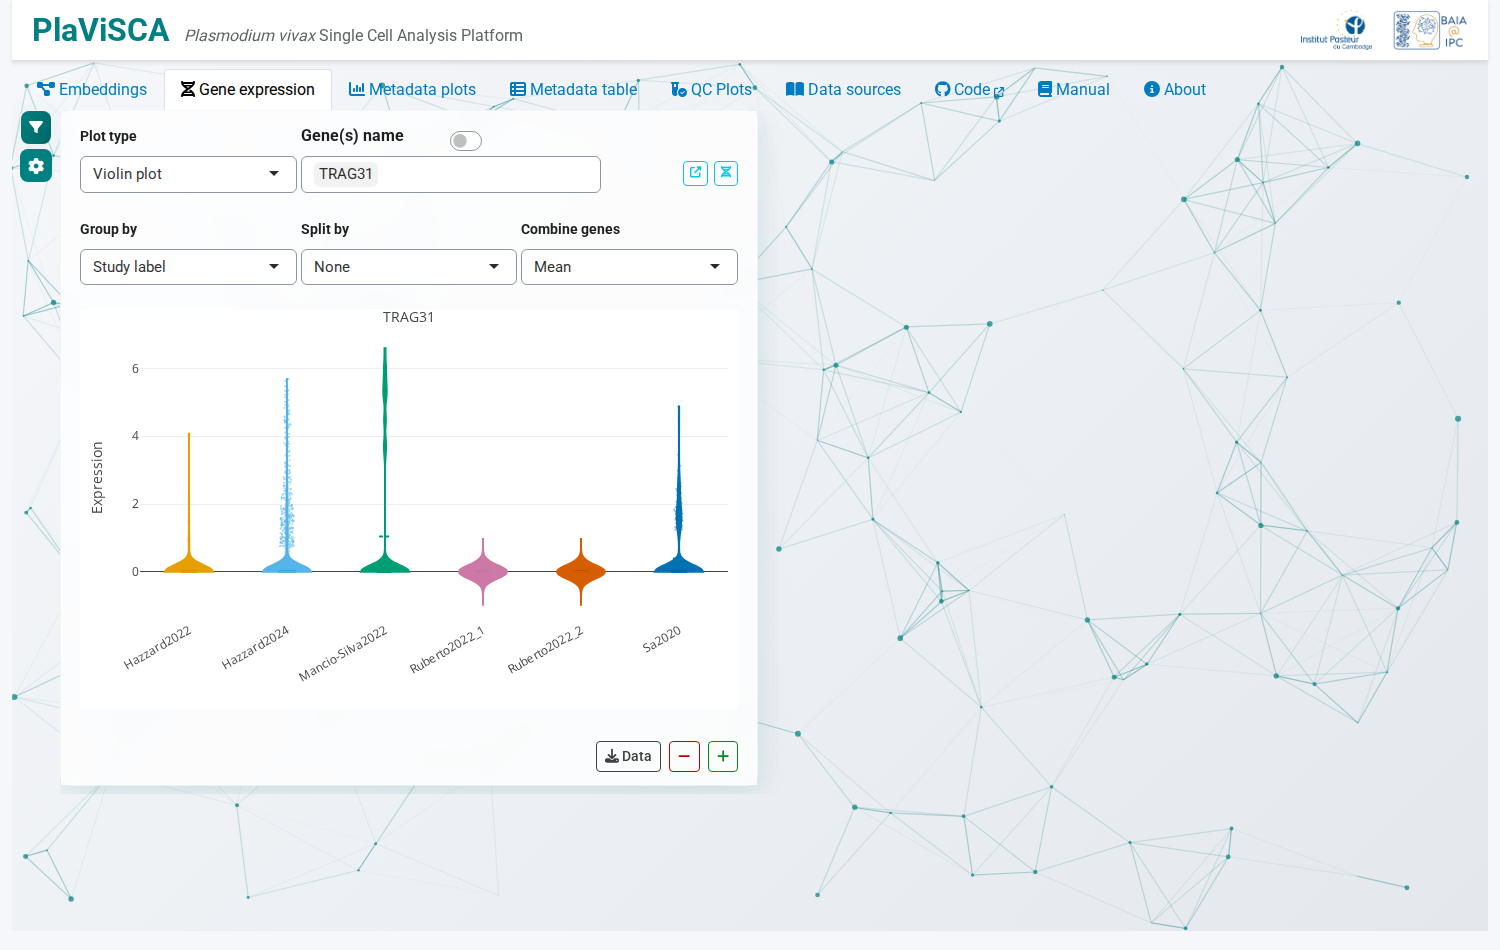
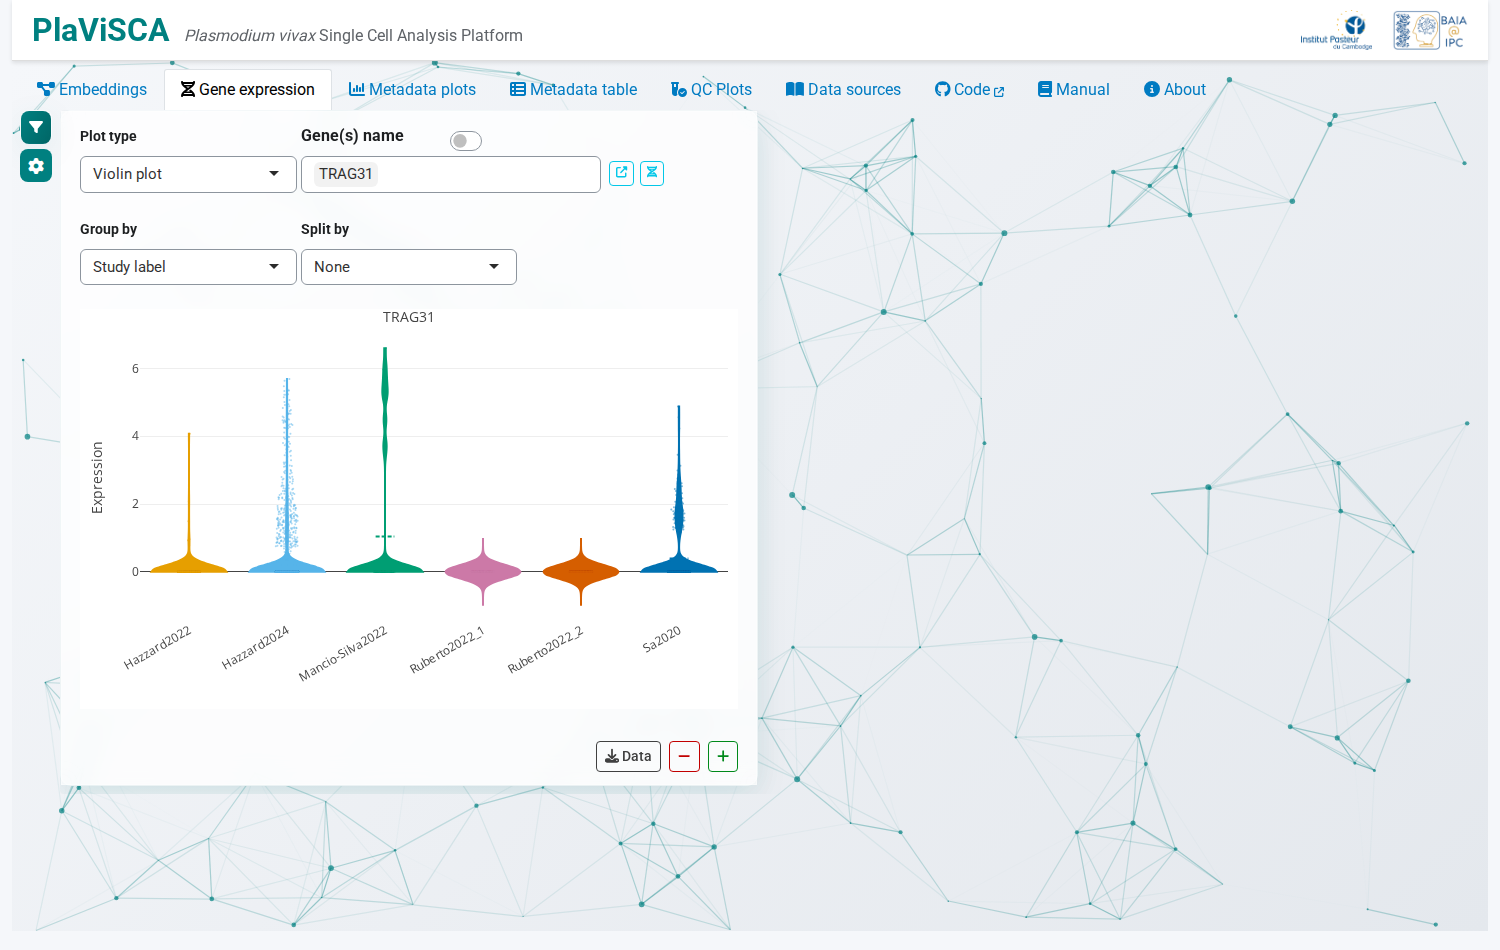
Manual: Gene expression image with the gene links next to the menu; rebuilt HTML

diff --git a/manual/docs/build/html/searchindex.js b/manual/docs/build/html/searchindex.js
@@ -1,1 +1,1 @@
-Search.setIndex({"alltitles":{"1. Clone the Repository":[[1,"clone-the-repository"]],"2. Install Dependencies":[[1,"install-dependencies"]],"3. Prepare the Data":[[1,"prepare-the-data"]],"4. Run the Application":[[1,"run-the-application"]],"About":[[2,"about"]],"Best Practices":[[2,"best-practices"]],"Contact":[[1,"contact"],[2,"contact"]],"Contents":[[0,null]],"Data Processing Pipeline":[[2,"data-processing-pipeline"]],"Data Sources":[[2,"data-sources"]],"Embeddings":[[2,"embeddings"]],"Environment Snapshot (current)":[[1,"environment-snapshot-current"]],"Gene Expression":[[2,"gene-expression"]],"Installation Steps":[[1,"installation-steps"]],"Metadata plots":[[2,"metadata-plots"]],"Metadata table":[[2,"metadata-table"]],"Notes for macOS":[[1,"notes-for-macos"]],"Option A: Using the helper script (Linux/macOS \u2014 Recommended)":[[1,"option-a-using-the-helper-script-linux-macos-recommended"]],"Option B: Using RStudio (Desktop)":[[1,"option-b-using-rstudio-desktop"]],"Option C: From the terminal (R command)":[[1,"option-c-from-the-terminal-r-command"]],"Overview of PlaViSCA Features":[[2,"overview-of-plavisca-features"]],"QC Plots":[[2,"qc-plots"]],"Setup Guide":[[1,null]],"Source Code":[[1,"source-code"]],"System Requirements":[[1,"system-requirements"]],"Troubleshooting":[[1,"troubleshooting"]],"User Manual":[[2,null]],"Welcome to PlaViSCA":[[0,null]]},"docnames":["index","setup_guide","user_manual"],"envversion":{"sphinx":66,"sphinx.domains.c":3,"sphinx.domains.changeset":1,"sphinx.domains.citation":1,"sphinx.domains.cpp":9,"sphinx.domains.index":1,"sphinx.domains.javascript":3,"sphinx.domains.math":2,"sphinx.domains.python":4,"sphinx.domains.rst":2,"sphinx.domains.std":2},"filenames":["index.rst","setup_guide.md","user_manual.md"],"indexentries":{},"objects":{},"objnames":{},"objtypes":{},"terms":{"2d":2,"3d":2,"99th":2,"A":2,"AND":2,"About":0,"All":[1,2],"At":1,"BY":1,"Below":2,"Each":2,"For":[1,2],"How":2,"I":1,"If":1,"In":2,"It":[0,2],"More":2,"Most":2,"No":2,"OR":2,"On":[1,2],"The":[1,2],"Their":1,"Then":1,"These":1,"This":[0,1,2],"To":[1,2],"What":2,"With":2,"abov":[1,2],"access":2,"across":2,"activ":[1,2],"add":[1,2],"addit":1,"address":1,"ai":2,"al":2,"align":2,"allow":2,"also":2,"alway":[],"ama1":2,"among":2,"analysi":[0,2],"ani":[1,2],"anim":2,"annot":2,"anoth":[1,2],"anthoni":[1,2],"apart":2,"app":[1,2],"app_data":1,"appear":2,"appl":1,"appli":2,"applic":[0,2],"appropri":2,"apt":1,"arm":2,"around":2,"arrow":2,"artifici":1,"asn1_bit_str":1,"aspect":2,"assess":2,"assist":[1,2],"atlas":2,"attribut":[1,2],"author":[1,2],"auto":[1,2],"automat":1,"avail":[1,2],"averag":[],"axe":2,"b":2,"background":2,"baia":[1,2],"balanc":2,"bar":2,"bash":1,"befor":[1,2],"best":0,"bioinformat":[1,2],"biolog":2,"biomed":[1,2],"blood":2,"blue":2,"bottom":2,"box":2,"brew":1,"bring":2,"broad":2,"browser":[1,2],"bslib":1,"bug":2,"build":1,"builder":[],"built":1,"button":[1,2],"cach":1,"call":[1,2],"cambodg":[1,2],"can":[1,2],"cancel":2,"capabl":2,"categori":2,"cc":1,"cd":1,"cell":[0,1,2],"center":2,"centr":2,"chang":2,"charact":1,"chart":2,"check":[1,2],"chmod":1,"choos":2,"chosen":2,"citat":2,"classifi":2,"cleaned_dataset":1,"clear":1,"cleveland":2,"click":[1,2],"clinic":2,"clockwis":2,"clone":0,"close":1,"cluster":2,"co":2,"code":[0,2],"cog":2,"collabor":1,"colleg":[1,2],"color":2,"colour":2,"column":[1,2],"com":1,"combin":2,"come":2,"common":[1,2],"communiti":0,"compar":2,"comparison":2,"compat":[1,2],"compil":1,"complex":0,"compon":2,"composit":2,"comprehens":2,"conclus":2,"conda":1,"condit":2,"config":1,"configur":1,"conflict":1,"const":1,"contact":0,"contain":[1,2],"contributor":[1,2],"control":2,"copi":1,"core":1,"corner":[1,2],"correspond":1,"count":[1,2],"cours":2,"cover":[0,2],"cpu":1,"crash":1,"creat":1,"creativ":1,"credit":2,"cross":2,"csp":2,"csv":[1,2],"curl":1,"current":[0,2],"customiz":2,"cyan":2,"cycl":[1,2],"dark":2,"darker":2,"data":0,"data_column":1,"data_sourc":1,"dataset":[0,2],"day":2,"dbp":2,"deactiv":1,"decid":2,"default":[1,2],"definit":1,"depart":[1,2],"depend":[0,2],"describ":2,"descript":[1,2],"design":0,"detail":[0,2],"detect":2,"determin":2,"dev":1,"develop":1,"deviat":2,"dialog":2,"differ":[1,2],"dimens":2,"dimension":2,"direct":2,"directori":1,"disabl":[1,2],"disc":2,"disk":1,"display":[1,2],"distinct":2,"distribut":2,"divid":2,"doc":1,"document":2,"doe":2,"doi":2,"domin":2,"dot":2,"download":[1,2],"dplyr":1,"draw":2,"drawn":2,"drug":2,"dt":1,"du":[1,2],"due":1,"dynam":2,"e":[1,2],"earli":2,"edg":2,"editor":1,"edu":[1,2],"effect":0,"elbow":2,"embed":[0,1],"empow":0,"empti":[1,2],"enabl":[1,2],"end":2,"ensur":[1,2],"environ":0,"equal":2,"error":1,"especi":[0,1],"et":2,"even":2,"everi":2,"exact":[1,2],"exampl":[1,2],"exclud":2,"expect":2,"experi":2,"explor":[0,1,2],"export":[1,2],"expos":1,"express":[0,1],"extend":1,"extern":2,"facilit":2,"fail":1,"fals":1,"far":2,"featur":0,"feedback":1,"femal":2,"fewer":2,"field":2,"figur":2,"file":[1,2],"filter":2,"find":[1,2],"first":[1,2],"five":1,"fix":1,"flag":1,"flexibl":2,"florida":[1,2],"focus":2,"fold":2,"folder":1,"follow":[1,2],"fontawesom":1,"found":1,"four":[],"free":[0,1],"freeli":1,"fsu":[1,2],"full":2,"funnel":2,"g":[1,2],"gametocyt":2,"gb":1,"gene":[0,1],"gene_annot":1,"general":2,"geometr":2,"get":[1,2],"ggonnella":[1,2],"giorgio":[1,2],"git":1,"github":[1,2],"give":2,"gland":2,"global":2,"go":[1,2],"goe":2,"gonnella":[1,2],"green":2,"grey":2,"grid":2,"group":2,"guid":[0,2],"guidanc":[0,2],"h":[1,2],"half":2,"hard":2,"harmless":1,"harmoni":2,"hazzard2022":2,"head":[1,2],"headless":1,"heatmap":2,"help":[1,2],"hidden":2,"high":2,"higher":[],"highest":2,"highlight":2,"hold":2,"homebrew":1,"host":[1,2],"hostnam":1,"hover":2,"http":1,"https":1,"hue":2,"hvf":2,"hypnozoit":2,"icon":2,"id":2,"identifi":[1,2],"implement":2,"improv":1,"includ":2,"incomplet":1,"independ":2,"infect":2,"infer":2,"inform":1,"inner":2,"input":[],"inquiri":1,"insid":1,"instal":0,"instead":2,"institut":[1,2],"instruct":1,"integr":2,"intellig":1,"interact":[0,2],"interfac":[0,2],"internat":1,"interpret":0,"intuit":0,"involv":2,"ip":1,"ipc":[1,2],"isol":2,"issu":[1,2],"javascript":1,"journal":2,"keep":2,"kept":2,"key":2,"kh":[1,2],"kind":[],"l":2,"label":2,"larger":2,"largest":2,"last":2,"later":1,"launch":1,"layout":2,"least":1,"leav":2,"left":2,"legend":2,"level":2,"leverag":2,"lib":1,"libcurl4":1,"librari":1,"libssl":1,"libxml2":1,"licens":1,"life":[1,2],"light":2,"line":1,"link":[1,2],"list":[1,2],"live":1,"liver":2,"load":1,"local":1,"localhost":1,"locat":2,"log":[1,2],"logic":2,"logo":2,"m":2,"magenta":2,"main":0,"maintain":1,"make":[1,2],"malaria":[0,2],"mamba":1,"manag":2,"mani":2,"manual":0,"match":1,"matric":2,"may":1,"md":1,"mean":2,"measur":2,"med":[1,2],"medicin":[1,2],"memois":1,"menu":2,"messag":1,"meta":2,"metadata":[0,1],"metric":2,"min":2,"minim":1,"minimum":1,"miss":[1,2],"mix":2,"modal":2,"mode":2,"modifi":1,"multi":[],"multipl":2,"must":1,"name":[1,2],"navig":2,"ncbi":2,"need":1,"neighbor":2,"new":2,"next":2,"non":1,"none":1,"normal":2,"normalis":[1,2],"normalize_df":1,"note":2,"noth":[],"number":[1,2],"offer":2,"offici":1,"onc":2,"one":2,"onli":2,"open":[0,1,2],"openssl":1,"oper":1,"opposit":2,"optim":2,"option":2,"order":2,"org":[1,2],"organism":2,"organiz":2,"origin":2,"others":[1,2],"otherwis":2,"outer":2,"outsid":2,"overview":0,"p":[1,2],"p01":1,"p47":[],"packag":1,"page":2,"pair":2,"pan":2,"pane":1,"panel":2,"parasit":2,"particl":2,"particular":2,"pasteur":[1,2],"path":1,"pattern":2,"pca":[1,2],"pcs":2,"per":[1,2],"percentag":2,"percentil":2,"person":2,"pick":1,"pie":2,"piec":2,"pipelin":1,"pkg_config_path":1,"pkgconfig":1,"plasmodb":2,"plasmodium":[0,2],"plavisca":1,"plavisca_data_dir":1,"pleas":1,"plot":[0,1],"plus":1,"png":2,"point":[1,2],"port":1,"posit":2,"post":2,"practic":0,"precis":2,"prefer":1,"prefix":1,"prepar":0,"preprocess":[1,2],"print":1,"problem":1,"professor":[1,2],"project":[1,2],"provid":[0,1,2],"public":[1,2],"publish":2,"pubm":2,"purpos":0,"put":2,"qc":0,"qualiti":2,"question":[1,2],"quick":2,"r":0,"ram":1,"raw":[1,2],"raw_df":1,"rcolorbrew":1,"rds":1,"read":[1,2],"readabl":2,"readi":1,"readr":1,"red":2,"reduct":2,"refer":2,"relat":2,"relev":2,"reliabl":2,"remain":2,"remov":[1,2],"renv":1,"repair":1,"repeat":1,"replac":1,"replic":2,"report":2,"repositori":0,"repres":2,"reproduc":2,"requir":0,"research":[0,2],"reserv":1,"respect":2,"restor":1,"result":[1,2],"right":[1,2],"ring":2,"rna":[0,2],"room":2,"row":2,"rpath":1,"ruberto":[1,2],"run":[0,2],"run_app":1,"runapp":1,"s":[0,1,2],"salivari":2,"sampl":2,"satur":2,"save":2,"say":2,"scale":2,"scatter":2,"scienc":[1,2],"screenshot":2,"scrna":0,"sd":[],"search":2,"second":2,"section":2,"sector":2,"see":[1,2],"select":[1,2],"selector":2,"separ":2,"seq":[0,2],"sequenc":[0,2],"server":1,"set":[1,2],"setup":[0,2],"seurat":2,"sever":2,"sex":2,"sh":1,"share":2,"sheet":2,"shini":[0,1],"shinycssload":1,"shinyj":1,"show":[1,2],"shown":2,"side":2,"similar":2,"simplifi":1,"singl":[0,2],"sit":2,"six":2,"size":2,"slow":1,"slower":1,"smaller":2,"snapshot":0,"sne":2,"softwar":[0,2],"solut":1,"sourc":0,"space":[1,2],"speci":2,"specif":[1,2],"split":2,"sporozoit":2,"sra":2,"stack":2,"stage":[1,2],"standard":2,"starsolo":2,"start":2,"startup":1,"state":[1,2],"status":1,"stay":2,"step":0,"stop":1,"strain":2,"string":1,"stringr":1,"strong":2,"strongest":[],"struck":2,"studi":[1,2],"style":2,"subset":2,"sudo":1,"suggest":2,"sum":2,"summari":2,"sunburst":2,"support":2,"svg":2,"switch":2,"synchron":2,"system":0,"systemat":2,"t":2,"tab":[1,2],"tabl":[0,1],"take":2,"teal":[],"team":[1,2],"technolog":2,"tell":2,"test":1,"text":2,"third":2,"three":2,"tibbl":1,"tick":2,"tidyvers":1,"time":2,"tissu":2,"titl":2,"togeth":2,"toggl":2,"tool":[1,2],"toolbar":2,"tooltip":2,"top":[1,2],"total":2,"toward":2,"transcriptom":2,"transpar":2,"treatment":2,"tri":1,"trophozoit":2,"troubleshoot":0,"true":1,"two":[1,2],"type":[1,2],"umap":2,"unfold":2,"unintegr":2,"unit":1,"universiti":[1,2],"untick":2,"updat":[1,2],"usag":1,"use":2,"user":0,"util":[0,2],"valu":2,"variabl":[1,2],"varianc":2,"various":2,"vector":2,"verifi":2,"version":1,"via":2,"violin":2,"viridi":1,"visit":1,"visual":[0,2],"vivax":[0,1,2],"vs":2,"warn":1,"way":2,"web":[1,2],"welcom":[1,2],"wheel":2,"whether":2,"whose":2,"width":2,"will":1,"window":1,"within":2,"without":[1,2],"work":[1,2],"writexl":1,"written":[1,2],"wrong":1,"x":[1,2],"xcode":1,"xlsx":2,"xml2":1,"y":2,"year":2,"yellow":2,"yml":1,"zhu":2,"zoom":2},"titles":["Welcome to PlaViSCA","Setup Guide","User Manual"],"titleterms":{"A":1,"About":2,"From":1,"applic":1,"b":1,"best":2,"c":1,"clone":1,"code":1,"command":1,"contact":[1,2],"content":0,"current":1,"data":[1,2],"depend":1,"desktop":1,"embed":2,"environ":1,"express":2,"featur":2,"gene":2,"guid":1,"helper":1,"instal":1,"linux":1,"maco":1,"manual":2,"metadata":2,"note":1,"option":1,"overview":2,"pipelin":2,"plavisca":[0,2],"plot":2,"practic":2,"prepar":1,"process":2,"qc":2,"r":1,"recommend":1,"repositori":1,"requir":1,"rstudio":1,"run":1,"script":1,"setup":1,"snapshot":1,"sourc":[1,2],"step":1,"system":1,"tabl":2,"termin":1,"troubleshoot":1,"use":1,"user":2,"welcom":0}})
+Search.setIndex({"alltitles":{"1. Clone the Repository":[[1,"clone-the-repository"]],"2. Install Dependencies":[[1,"install-dependencies"]],"3. Prepare the Data":[[1,"prepare-the-data"]],"4. Run the Application":[[1,"run-the-application"]],"About":[[2,"about"]],"Best Practices":[[2,"best-practices"]],"Contact":[[1,"contact"],[2,"contact"]],"Contents":[[0,null]],"Data Processing Pipeline":[[2,"data-processing-pipeline"]],"Data Sources":[[2,"data-sources"]],"Embeddings":[[2,"embeddings"]],"Environment Snapshot (current)":[[1,"environment-snapshot-current"]],"Gene Expression":[[2,"gene-expression"]],"Installation Steps":[[1,"installation-steps"]],"Metadata plots":[[2,"metadata-plots"]],"Metadata table":[[2,"metadata-table"]],"Notes for macOS":[[1,"notes-for-macos"]],"Option A: Using the helper script (Linux/macOS \u2014 Recommended)":[[1,"option-a-using-the-helper-script-linux-macos-recommended"]],"Option B: Using RStudio (Desktop)":[[1,"option-b-using-rstudio-desktop"]],"Option C: From the terminal (R command)":[[1,"option-c-from-the-terminal-r-command"]],"Overview of PlaViSCA Features":[[2,"overview-of-plavisca-features"]],"QC Plots":[[2,"qc-plots"]],"Setup Guide":[[1,null]],"Source Code":[[1,"source-code"]],"System Requirements":[[1,"system-requirements"]],"Troubleshooting":[[1,"troubleshooting"]],"User Manual":[[2,null]],"Welcome to PlaViSCA":[[0,null]]},"docnames":["index","setup_guide","user_manual"],"envversion":{"sphinx":66,"sphinx.domains.c":3,"sphinx.domains.changeset":1,"sphinx.domains.citation":1,"sphinx.domains.cpp":9,"sphinx.domains.index":1,"sphinx.domains.javascript":3,"sphinx.domains.math":2,"sphinx.domains.python":4,"sphinx.domains.rst":2,"sphinx.domains.std":2},"filenames":["index.rst","setup_guide.md","user_manual.md"],"indexentries":{},"objects":{},"objnames":{},"objtypes":{},"terms":{"2d":2,"3d":2,"99th":2,"A":2,"AND":2,"About":0,"All":[1,2],"At":1,"BY":1,"Below":2,"Each":2,"For":[1,2],"How":2,"I":1,"If":1,"In":2,"It":[0,2],"More":2,"Most":2,"No":2,"OR":2,"On":[1,2],"The":[1,2],"Their":1,"Then":1,"These":1,"This":[0,1,2],"To":[1,2],"What":2,"With":2,"abov":[1,2],"access":2,"across":2,"activ":[1,2],"add":[1,2],"addit":1,"address":1,"ai":2,"al":2,"align":2,"allow":2,"also":2,"alway":[],"ama1":2,"among":2,"analysi":[0,2],"ani":[1,2],"anim":2,"annot":2,"anoth":[1,2],"anthoni":[1,2],"apart":2,"app":[1,2],"app_data":1,"appear":2,"appl":1,"appli":2,"applic":[0,2],"appropri":2,"apt":1,"arm":2,"around":2,"arrow":2,"artifici":1,"asn1_bit_str":1,"aspect":2,"assess":2,"assist":[1,2],"atlas":2,"attribut":[1,2],"author":[1,2],"auto":[1,2],"automat":1,"avail":[1,2],"averag":[],"axe":2,"b":2,"background":2,"baia":[1,2],"balanc":2,"bar":2,"bash":1,"befor":[1,2],"best":0,"bioinformat":[1,2],"biolog":2,"biomed":[1,2],"blood":2,"blue":2,"bottom":2,"box":2,"brew":1,"bring":2,"broad":2,"browser":[1,2],"bslib":1,"bug":2,"build":1,"builder":[],"built":1,"button":[1,2],"cach":1,"call":[1,2],"cambodg":[1,2],"can":[1,2],"cancel":2,"capabl":2,"card":2,"categori":2,"cc":1,"cd":1,"cell":[0,1,2],"center":2,"centr":2,"chang":2,"charact":1,"chart":2,"check":[1,2],"chmod":1,"choos":2,"chosen":2,"citat":2,"classifi":2,"cleaned_dataset":1,"clear":1,"cleveland":2,"click":[1,2],"clinic":2,"clockwis":2,"clone":0,"close":[1,2],"cluster":2,"co":2,"code":[0,2],"cog":2,"collabor":1,"colleg":[1,2],"color":2,"colour":2,"column":[1,2],"com":1,"combin":2,"come":2,"common":[1,2],"communiti":0,"compar":2,"comparison":2,"compat":[1,2],"compil":1,"complex":0,"compon":2,"composit":2,"comprehens":2,"conclus":2,"conda":1,"condit":2,"config":1,"configur":1,"conflict":1,"const":1,"contact":0,"contain":[1,2],"contributor":[1,2],"control":2,"copi":1,"core":1,"corner":[1,2],"correspond":1,"count":[1,2],"cours":2,"cover":[0,2],"cpu":1,"crash":1,"creat":1,"creativ":1,"credit":2,"cross":2,"csp":2,"csv":[1,2],"curl":1,"current":[0,2],"customiz":2,"cyan":2,"cycl":[1,2],"dark":2,"darker":2,"data":0,"data_column":1,"data_sourc":1,"dataset":[0,2],"day":2,"dbp":2,"deactiv":1,"decid":2,"default":[1,2],"definit":1,"depart":[1,2],"depend":[0,2],"describ":2,"descript":[1,2],"design":0,"detail":[0,2],"detect":2,"determin":2,"dev":1,"develop":1,"deviat":2,"dialog":2,"differ":[1,2],"dimens":2,"dimension":2,"direct":2,"directori":1,"disabl":[1,2],"disc":2,"disk":1,"display":[1,2],"distinct":2,"distribut":2,"divid":2,"doc":1,"document":2,"doe":2,"doi":2,"domin":2,"dot":2,"download":[1,2],"dplyr":1,"drag":2,"draw":2,"drawn":2,"drug":2,"dt":1,"du":[1,2],"due":1,"dynam":2,"e":[1,2],"earli":2,"edg":2,"editor":1,"edu":[1,2],"effect":0,"elbow":2,"embed":[0,1],"empow":0,"empti":[1,2],"enabl":[1,2],"end":2,"ensur":[1,2],"environ":0,"equal":2,"error":1,"esc":2,"especi":[0,1],"et":2,"even":2,"everi":2,"exact":[1,2],"exampl":[1,2],"exclud":2,"expand":2,"expect":2,"experi":2,"explor":[0,1,2],"export":[1,2],"expos":1,"express":[0,1],"extend":1,"extern":2,"facilit":2,"fail":1,"fals":1,"far":2,"featur":0,"feedback":1,"femal":2,"fewer":2,"field":2,"figur":2,"file":[1,2],"filter":2,"find":[1,2],"first":[1,2],"five":1,"fix":1,"flag":1,"flexibl":2,"florida":[1,2],"focus":2,"fold":2,"folder":1,"follow":[1,2],"fontawesom":1,"found":1,"four":[],"free":[0,1],"freeli":1,"fsu":[1,2],"full":2,"funnel":2,"g":[1,2],"gametocyt":2,"gb":1,"gene":[0,1],"gene_annot":1,"general":2,"geometr":2,"get":[1,2],"ggonnella":[1,2],"giorgio":[1,2],"git":1,"github":[1,2],"give":2,"gland":2,"global":2,"go":[1,2],"goe":2,"gonnella":[1,2],"green":2,"grey":2,"grid":2,"group":2,"guid":[0,2],"guidanc":[0,2],"h":[1,2],"half":2,"hard":2,"harmless":1,"harmoni":2,"hazzard2022":2,"head":[1,2],"headless":1,"heatmap":2,"help":[1,2],"hidden":2,"high":2,"higher":[],"highest":2,"highlight":2,"hold":2,"homebrew":1,"host":[1,2],"hostnam":1,"hover":2,"http":1,"https":1,"hue":2,"hvf":2,"hypnozoit":2,"icon":2,"id":2,"identifi":[1,2],"implement":2,"improv":1,"includ":2,"incomplet":1,"independ":2,"infect":2,"infer":2,"inform":1,"inner":2,"input":[],"inquiri":1,"insid":1,"instal":0,"instead":2,"institut":[1,2],"instruct":1,"integr":2,"intellig":1,"interact":[0,2],"interfac":[0,2],"internat":1,"interpret":0,"intuit":0,"involv":2,"ip":1,"ipc":[1,2],"isol":2,"issu":[1,2],"javascript":1,"journal":2,"keep":2,"kept":2,"key":2,"kh":[1,2],"kind":[],"l":2,"label":2,"larger":2,"largest":2,"last":2,"later":1,"launch":1,"layout":2,"least":1,"leav":2,"left":2,"legend":2,"level":2,"leverag":2,"lib":1,"libcurl4":1,"librari":1,"libssl":1,"libxml2":1,"licens":1,"life":[1,2],"light":2,"line":1,"link":[1,2],"list":[1,2],"live":1,"liver":2,"load":1,"local":1,"localhost":1,"locat":2,"log":[1,2],"logic":2,"logo":2,"m":2,"magenta":2,"main":0,"maintain":1,"make":[1,2],"malaria":[0,2],"mamba":1,"manag":2,"mani":2,"manual":0,"match":1,"matric":2,"may":1,"md":1,"mean":2,"measur":2,"med":[1,2],"medicin":[1,2],"memois":1,"menu":2,"messag":1,"meta":2,"metadata":[0,1],"metric":2,"min":2,"minim":1,"minimum":1,"miss":[1,2],"mix":2,"modal":2,"mode":2,"modifi":1,"mous":2,"multi":[],"multipl":2,"must":1,"name":[1,2],"navig":2,"ncbi":2,"need":1,"neighbor":2,"new":2,"next":2,"non":1,"none":1,"normal":2,"normalis":[1,2],"normalize_df":1,"note":2,"noth":[],"number":[1,2],"offer":2,"offici":1,"onc":2,"one":2,"onli":2,"open":[0,1,2],"openssl":1,"oper":1,"opposit":2,"optim":2,"option":2,"order":2,"org":[1,2],"organism":2,"organiz":2,"origin":2,"others":[1,2],"otherwis":2,"outer":2,"outsid":2,"overview":0,"p":[1,2],"p01":1,"p47":[],"packag":1,"page":2,"pair":2,"pan":2,"pane":1,"panel":2,"parasit":2,"particl":2,"particular":2,"pasteur":[1,2],"path":1,"pattern":2,"pca":[1,2],"pcs":2,"per":[1,2],"percentag":2,"percentil":2,"person":2,"pick":1,"pie":2,"piec":2,"pipelin":1,"pkg_config_path":1,"pkgconfig":1,"plasmodb":2,"plasmodium":[0,2],"plavisca":1,"plavisca_data_dir":1,"pleas":1,"plot":[0,1],"plus":1,"png":2,"point":[1,2],"port":1,"posit":2,"post":2,"practic":0,"precis":2,"prefer":1,"prefix":1,"prepar":0,"preprocess":[1,2],"print":1,"problem":1,"professor":[1,2],"project":[1,2],"provid":[0,1,2],"public":[1,2],"publish":2,"pubm":2,"purpos":0,"put":2,"qc":0,"qualiti":2,"question":[1,2],"quick":2,"r":0,"ram":1,"raw":[1,2],"raw_df":1,"rcolorbrew":1,"rds":1,"read":[1,2],"readabl":2,"readi":1,"readr":1,"red":2,"reduct":2,"refer":2,"relat":2,"relev":2,"reliabl":2,"remain":2,"remov":[1,2],"renv":1,"repair":1,"repeat":1,"replac":1,"replic":2,"report":2,"repositori":0,"repres":2,"reproduc":2,"requir":0,"research":[0,2],"reserv":1,"respect":2,"restor":1,"result":[1,2],"right":[1,2],"ring":2,"rna":[0,2],"room":2,"row":2,"rpath":1,"ruberto":[1,2],"run":[0,2],"run_app":1,"runapp":1,"s":[0,1,2],"salivari":2,"sampl":2,"satur":2,"save":2,"say":2,"scale":2,"scatter":2,"scienc":[1,2],"screen":2,"screenshot":2,"scrna":0,"sd":[],"search":2,"second":2,"section":2,"sector":2,"see":[1,2],"select":[1,2],"selector":2,"separ":2,"seq":[0,2],"sequenc":[0,2],"server":1,"set":[1,2],"setup":[0,2],"seurat":2,"sever":2,"sex":2,"sh":1,"share":2,"sheet":2,"shini":[0,1],"shinycssload":1,"shinyj":1,"shorter":2,"show":[1,2],"shown":2,"side":2,"similar":2,"simplifi":1,"singl":[0,2],"sit":2,"six":2,"size":2,"slow":1,"slower":1,"smaller":2,"snapshot":0,"sne":2,"softwar":[0,2],"solut":1,"sourc":0,"space":[1,2],"speci":2,"specif":[1,2],"split":2,"sporozoit":2,"sra":2,"stack":2,"stage":[1,2],"standard":2,"starsolo":2,"start":2,"startup":1,"state":[1,2],"status":1,"stay":2,"step":0,"stop":1,"strain":2,"string":1,"stringr":1,"strong":2,"strongest":[],"struck":2,"studi":[1,2],"style":2,"subset":2,"sudo":1,"suggest":2,"sum":2,"summari":2,"sunburst":2,"support":2,"svg":2,"switch":2,"synchron":2,"system":0,"systemat":2,"t":2,"tab":[1,2],"tabl":[0,1],"take":2,"taller":2,"teal":[],"team":[1,2],"technolog":2,"tell":2,"test":1,"text":2,"third":2,"three":2,"tibbl":1,"tick":2,"tidyvers":1,"time":2,"tissu":2,"titl":2,"togeth":2,"toggl":2,"tool":[1,2],"toolbar":2,"tooltip":2,"top":[1,2],"total":2,"toward":2,"transcriptom":2,"transpar":2,"treatment":2,"tri":1,"trophozoit":2,"troubleshoot":0,"true":1,"two":[1,2],"type":[1,2],"umap":2,"unfold":2,"unintegr":2,"unit":1,"universiti":[1,2],"untick":2,"updat":[1,2],"usag":1,"use":2,"user":0,"util":[0,2],"valu":2,"variabl":[1,2],"varianc":2,"various":2,"vector":2,"verifi":2,"version":1,"via":2,"violin":2,"viridi":1,"visit":1,"visual":[0,2],"vivax":[0,1,2],"vs":2,"warn":1,"way":2,"web":[1,2],"welcom":[1,2],"wheel":2,"whether":2,"whose":2,"width":2,"will":1,"window":1,"within":2,"without":[1,2],"work":[1,2],"writexl":1,"written":[1,2],"wrong":1,"x":[1,2],"xcode":1,"xlsx":2,"xml2":1,"y":2,"year":2,"yellow":2,"yml":1,"zhu":2,"zoom":2},"titles":["Welcome to PlaViSCA","Setup Guide","User Manual"],"titleterms":{"A":1,"About":2,"From":1,"applic":1,"b":1,"best":2,"c":1,"clone":1,"code":1,"command":1,"contact":[1,2],"content":0,"current":1,"data":[1,2],"depend":1,"desktop":1,"embed":2,"environ":1,"express":2,"featur":2,"gene":2,"guid":1,"helper":1,"instal":1,"linux":1,"maco":1,"manual":2,"metadata":2,"note":1,"option":1,"overview":2,"pipelin":2,"plavisca":[0,2],"plot":2,"practic":2,"prepar":1,"process":2,"qc":2,"r":1,"recommend":1,"repositori":1,"requir":1,"rstudio":1,"run":1,"script":1,"setup":1,"snapshot":1,"sourc":[1,2],"step":1,"system":1,"tabl":2,"termin":1,"troubleshoot":1,"use":1,"user":2,"welcom":0}})

diff --git a/manual/docs/build/html/user_manual.html b/manual/docs/build/html/user_manual.html
@@ -238,6 +238,7 @@
 </ul>
 <p>The hover text also gives the gene with the largest share of the cell’s expression (e.g. <em>Dominant: CSP (72%)</em>). Genes opposite each other on the wheel cancel out: a cell expressing both equally is grey, as is a cell expressing all genes equally. Select genes that you expect in the same cells one after the other, so that they get neighboring colors. With many genes, neighboring colors are hard to tell apart: from about 6 genes, check the hover text, or use <em>Mean</em> or <em>Sum</em>.</p>
 <p><strong>Visualization bar</strong>: the title bar of the plot holds <strong>Color by</strong> and the <strong>Compare Plots</strong> and <strong>Download Data</strong> buttons.</p>
+<p><strong>Plot size</strong>: drag the bottom-right corner of the plot card to make it taller or shorter (in Compare Plots mode, both plots follow). The expand button next to the corner, shown when the mouse is over the plot, shows the plot full screen; close it with the button again or with Esc.</p>
 <p><strong>Compare Plots mode</strong>: Click <strong>Compare Plots</strong> to display two independent plots (Plot A and Plot B) side-by-side, each with its own <strong>Color by</strong> selector in its title bar; a plot colored by genes has its own gene row between its title bar and the plot, and the two plots stay aligned. In 2D, the legends sit below the plots by default, so that they do not cover cells; the two plots share the plot settings, including the legend position and size.</p>
 <p><strong>Interactive Cell Selection</strong>: Click any cell to open a modal dialog showing a per-cell gene expression table (gene ID, gene name, expression value, description). The table is filterable and exportable as CSV.</p>
 <p><strong>Download Data</strong>: Exports the currently filtered metadata as a CSV file.</p>
